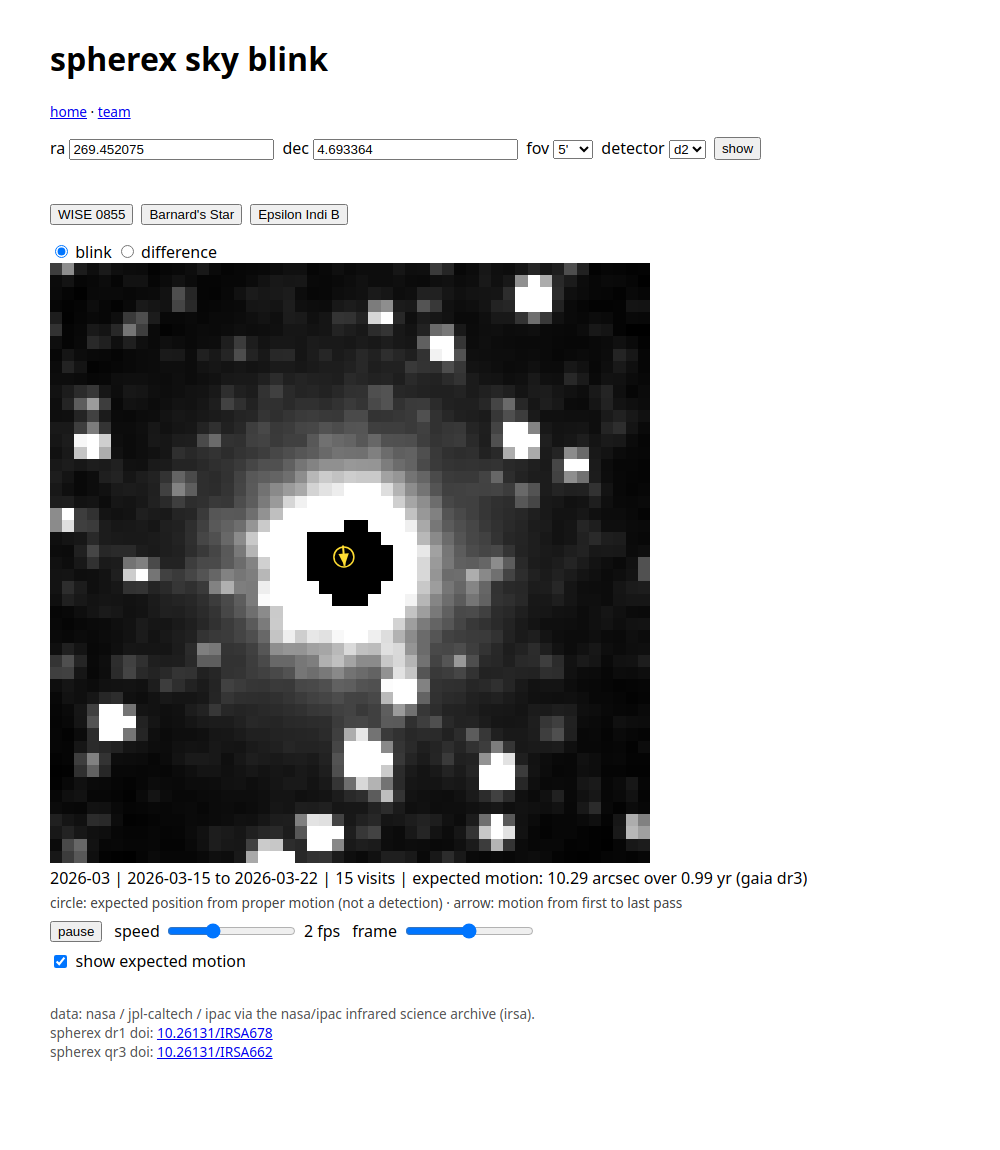
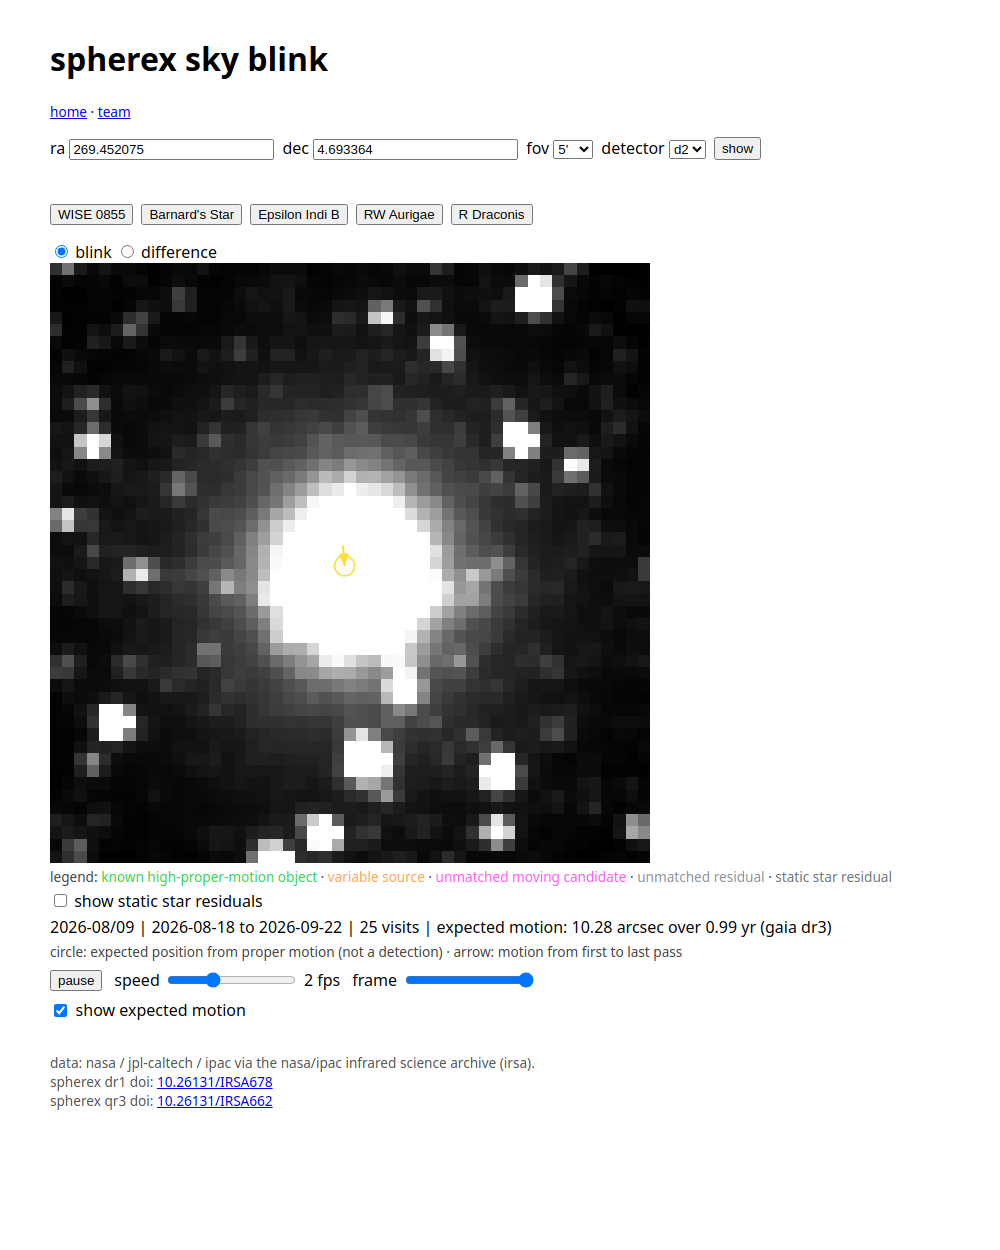
docs: final readme with screenshots, refreshed live-site screenshots (home, explore, museum)

diff --git a/README.md b/README.md
@@ -1,26 +1,25 @@
 # planetx-nasa26
 
-<!-- screenshots: drop res1.png / res2.png into docs/results/ and uncomment
 <p align="center">
-  <img src="docs/results/res1.png" alt="project name - pos results" width="45%">
-  &nbsp; &nbsp;
-  <img src="docs/results/res2.png" alt="project name - neg results" width="45%">
+  <img src="docs/deliverables/03-screenshots/01-home.png" alt="planetx-nasa26 landing page: spot the movers in the sky" width="48%">
+  &nbsp;
+  <img src="docs/deliverables/03-screenshots/03-difference-epsilon-indi-b.png" alt="background-subtracted difference image of epsilon indi b with the detected high-proper-motion object marked" width="48%">
 </p>
--->
+<p align="center">
+  <img src="docs/deliverables/03-screenshots/02-blink-wise-0855.png" alt="blink player showing a spherex survey-pass coadd of wise 0855" width="48%">
+  &nbsp;
+  <img src="docs/deliverables/03-screenshots/04-blink-barnards-star.png" alt="blink player showing a spherex survey-pass coadd of barnard's star" width="48%">
+</p>
+<p align="center">
+  <img src="docs/deliverables/03-screenshots/06-explore.png" alt="explore page with the five challenge targets and the spherex gallery" width="48%">
+  &nbsp;
+  <img src="docs/deliverables/03-screenshots/07-museum.png" alt="museum halls explaining the science behind the project" width="48%">
+</p>
 
-public web tool to blink spherex sky images over time, so anyone can spot moving and variable objects. built for the 2026 nasa space apps challenge "planet x and spherex".
+public web tool to blink spherex sky images over time, so anyone can spot moving and variable objects. built for the 2026 nasa space apps challenge "planet x and spherex". planet x is the motivation: this tool makes no discovery claims.
 
 live demo: https://elsayedelmandoh-planetx-nasa26.static.hf.space
 space page: https://huggingface.co/spaces/elsayedelmandoh/planetx-nasa26
-
-precompute: `uv run python -m src.utils.data_acquisition --all` (then `uv run python -m src.evals.runner --gate`)
-
-how to adapt this template
-
-1. replace the project name, problem statement, and goal.
-2. define the dataset and constraints before implementation.
-3. move repeatable logic out of notebooks and into `src/`.
-4. keep tests small, deterministic, and focused on the critical path.
 
 ## table of contents
 
@@ -44,20 +43,49 @@ how to adapt this template
 
 **goal.** a public web tool where anyone types a right ascension and declination, picks a field of view, and watches that patch of sky blink through the spherex epochs, so a moving or variable object is obvious in seconds instead of hours.
 
-**solution / aha moment.** the backend cuts the requested patch out of the spherex release with astropy and astroquery, stacks the epochs into a small time series, and the frontend plays them as a loop. the aha moment is the shift itself: a dot that was not there a second ago, and the tool naming it as a mover.
+**solution / aha moment.** an offline python pipeline pulls real spherex dr1 and qr3 level 2 visits from nasa/ipac irsa (sia v2) and cuts 7.5 arcmin cutouts centred on each target's proper-motion-propagated position (gaia dr3). it masks bad pixels from the flags extension, reprojects to one north-up grid, and median-stacks each survey pass. it then makes background-subtracted difference images between passes and runs a rule-based detector with a gaia dr3 cross-match plus an ml real-bogus classifier. pngs and json land in `web/cache/`, and a static site (youssef's landing design plus the blink tool) plays them. the aha moment is the shift itself: a dot that was not there a second ago, and the tool saying what it is.
 
-**results.** the repo today holds the settings loader, the coordinate parser, the api shell, the frontend shell, and the offline test suite. the cutout endpoint, the live irsa pull, and the blink playback are the next slice, and the eval gate is still a stub.
+**results.** read from `web/cache/index.json`, the pass json files and `web/cache/ml_metrics.json`:
+
+| item | value |
+|---|---:|
+| benchmark targets | 5 |
+| target-detector combinations | 13 |
+| survey-pass coadds | 40 (3 or more per target and detector, 4 for epsilon indi b) |
+| difference images | 27 |
+| spherex visits stacked | 698 (summed over the pass coadds, a visit in two detectors counts twice) |
+| classifier recall | 0.935 |
+| classifier false positive rate | 0.046 |
+| classifier roc auc | 0.992 |
+| classifier n_train / n_test | 864 / 216 |
+
+headline: epsilon indi b (detector 6) is detected as a known high-proper-motion object in every difference frame (`diff-1-2`, `diff-2-3`, `diff-3-4`, peaks at 48, 55 and 37 sigma). this is a recovery of a known object, not a discovery.
+
+honest limits:
+
+* static site: no live queries. only precomputed targets are browsable.
+* one detector per target for epsilon indi b, rw aurigae and r draconis. wise 0855 and barnard's star have more.
+* bright stars saturate. barnard's star core is shown as saturated, not measured.
+* wise 0855 motion between passes is below the detection threshold.
+* the classifier is trained on injected movers plus real static-star residuals, so its scores rank candidates and are not proof of anything.
 
 ## key features
 
 * **coordinate input:** ra and dec in decimal degrees or sexagesimal (`08h 55m 10.8s`), parsed with astropy. shipped.
-* **field of view presets:** 2, 5, 15, and 30 arcmin cuts, 5 arcmin by default. shipped.
-* **benchmark target presets:** the five required targets load from `configs/default.yaml` into buttons through `GET /api/targets`, so a judge can check a target in one click. shipped.
-* **blink player:** a canvas that cycles the epochs of the cutout, which is where movers pop. shell only.
-* **cutouts on demand:** planned next slice. pull the matching spherex epochs from irsa, cut them, and reproject them onto a common grid.
-* **stacking and difference imaging:** planned. add epochs together to raise signal to noise, or subtract one epoch from another to isolate what changed.
-* **102-band spectra:** planned. pull the band-pass spectrum of a selected source on the fly.
-* **linkable and embeddable views:** planned. `?ra=...&dec=...&fov=...` so any cutout is shareable.
+* **benchmark target presets:** the five required targets as one-click buttons. shipped.
+* **url params:** `?ra=...&dec=...&fov=...` plus `det` and `mode`, so any view is shareable. shipped.
+* **blink player:** cycles the survey-pass coadds, which is where movers pop. shipped.
+* **survey-pass coadds:** median stack of each pass after bad-pixel masking and reprojection. shipped.
+* **difference images:** background-subtracted, pass minus pass. shipped.
+* **expected-motion arrow:** drawn from gaia dr3 proper motion. shipped.
+* **rule-based detector + gaia cross-match:** 5-sigma threshold, dipole pairing, proper-motion match, gaia dr3 labels. shipped.
+* **ml score:** real-bogus classifier score per detection. shipped.
+* **saturated-core display:** saturated pixels render white. shipped.
+* **offline re-render:** rebuild frames from cached cutouts with `--offline`. shipped.
+* **live queries for any coordinate:** not shipped. the site is static.
+* **102-band spectra:** not shipped.
+* **flag overlay:** not shipped.
+* **aladin panel:** not shipped.
 
 ## setup
 
@@ -67,7 +95,7 @@ before running this project, ensure you have the following installed:
 
 * [git](https://git-scm.com/)
 * [uv](https://docs.astral.sh/uv/), or python 3.12 with pip
-* network access to irsa for live spherex pulls, offline work needs none
+* network access to irsa for precompute runs, serving and tests need none
 * optionally [anaconda](https://www.anaconda.com/) or miniconda if you prefer a conda environment
 
 ### 1. clone the repository
@@ -125,39 +153,51 @@ then open http://localhost:8000/
 | `make lint` | ruff check plus format check |
 | `make format` | ruff format plus ruff autofix |
 
-the api answers `GET /health` and `GET /api/targets`. the frontend is served from `web/` at `/`.
+the api answers `GET /health` and `GET /api/targets`. the frontend is served from `web/` at `/`. the live site is a static hugging face space that serves `web/` as is.
+
+precompute (needs irsa network access, `--offline` re-renders from cached cutouts):
+
+```bash
+uv run python -m src.utils.data_acquisition --target "<name>" --detector dN   # one target and detector
+uv run python -m src.utils.data_acquisition --all                              # every target
+uv run python -m src.utils.data_acquisition --all --offline                    # re-render only
+uv run python -m src.utils.ml_classifier train
+uv run python -m src.utils.ml_classifier score
+uv run python -m src.evals.runner --gate
+```
 
 ## repository map
 
 | path | holds |
 |---|---|
-| `web/` | the frontend: `index.html` (ra/dec input, fov, presets, blink player) |
+| `web/` | static site: `home.html` (landing), `index.html` (blink tool), `team.html`, `app.js`, `styles.css`, `cache/` (precomputed pngs, json, `index.json`, `ml_metrics.json`) |
 | `src/api/` | fastapi app and routes, serves `web/` at `/` |
 | `src/core/` | settings loader (`configs/*.yaml` + `.env`), logging |
-| `src/utils/` | coordinate parsing, data acquisition and processing helpers |
-| `src/evals/` | offline eval gate runner (stub for now) |
+| `src/utils/` | `data_acquisition.py` (irsa pull, cutouts, passes, cache), `data_processing.py` (masking, reprojection, stacking, difference, detector), `ml_classifier.py` (real-bogus train and score), coordinate parsing |
+| `src/evals/` | offline eval gate: checks the 5 targets each have 3 or more survey passes |
 | `configs/` | values: data release, fov presets, benchmark targets |
-| `data/` | `raw/` downloads (not shipped), `processed/` cached cutouts, `samples/` small fixtures |
+| `data/` | `raw/` downloads, `processed/` cached cutouts, `samples/` small fixtures |
 | `evals/` | benchmark notes and figures |
 | `notebooks/` | exploration: data acquisition, eda, data processing |
 | `tests/` | unit, integration. offline by default |
 | `docs/project-definition/` | problem, goal, architecture, api contract, decision log |
+| `docs/deliverables/` | presentation draft (`02-presentation/`), screenshots (`03-screenshots/`) |
 | `docs/.internal/` | agent plans and notes, not product docs |
-| `.github/workflows/` | ci (lint, test, eval gate) and image push |
+| `.github/workflows/` | `ci.yml` (lint, test, eval gate) and `deploy.yml` (static hugging face space deploy) |
 
 every folder holds an `00-quickstart.md` with the details for that folder.
 
 ## benchmark targets
 
-| target | ra (deg) | dec (deg) | kind |
-|---|---:|---:|---|
-| WISE 0855 | 133.795129 | -7.245147 | fast-moving brown dwarf |
-| Barnard's Star | 269.452075 | +4.693364 | high proper-motion red dwarf |
-| Epsilon Indi B | 331.044147 | -56.782844 | binary brown dwarfs |
-| RW Aurigae | 76.956375 | +30.401389 | variable star |
-| R Draconis | 248.167625 | +66.755000 | variable star |
+| target | ra (deg) | dec (deg) | kind | detector | survey passes |
+|---|---:|---:|---|---|---:|
+| WISE 0855 | 133.795129 | -7.245147 | fast-moving brown dwarf | d1, d2, d4, d5, d6 | 3 each |
+| Barnard's Star | 269.452075 | +4.693364 | high proper-motion red dwarf | d1 to d5 | 3 each |
+| Epsilon Indi B | 331.044147 | -56.782844 | binary brown dwarfs | d6 | 4 |
+| RW Aurigae | 76.956375 | +30.401389 | variable star | d2 | 3 |
+| R Draconis | 248.167625 | +66.755000 | variable star | d3 | 3 |
 
-values live in `configs/default.yaml` and load as preset buttons from `GET /api/targets`.
+coordinates live in `configs/default.yaml` and load as preset buttons from `GET /api/targets`. detectors and passes come from `web/cache/index.json`.
 
 ## data credit
 
